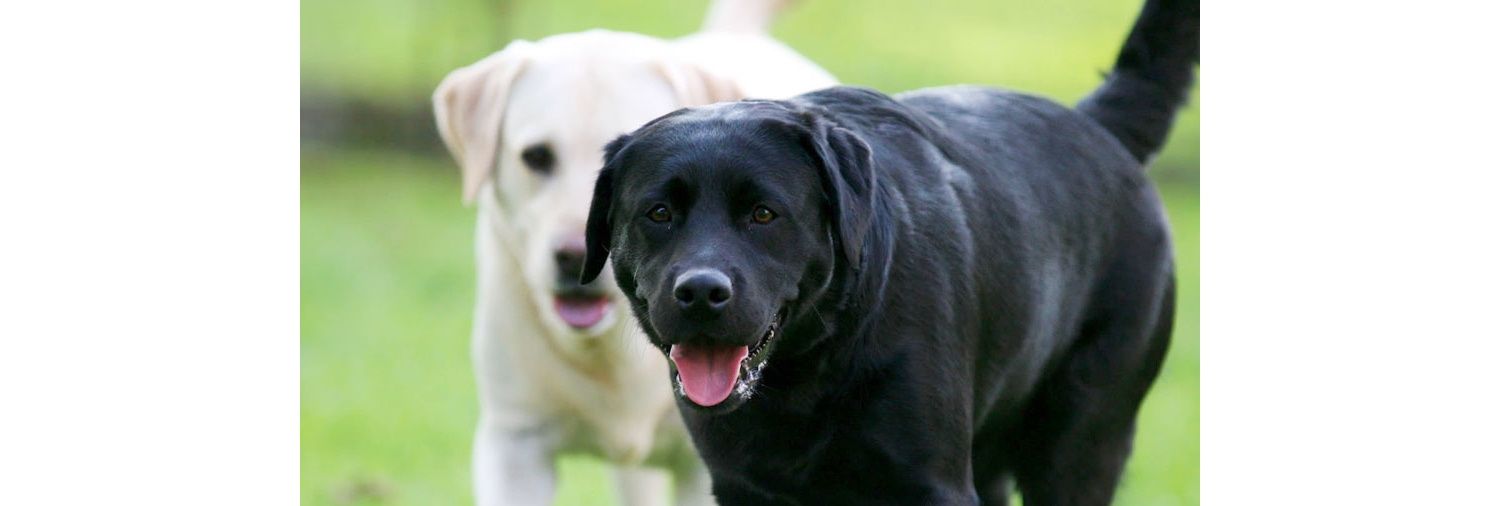
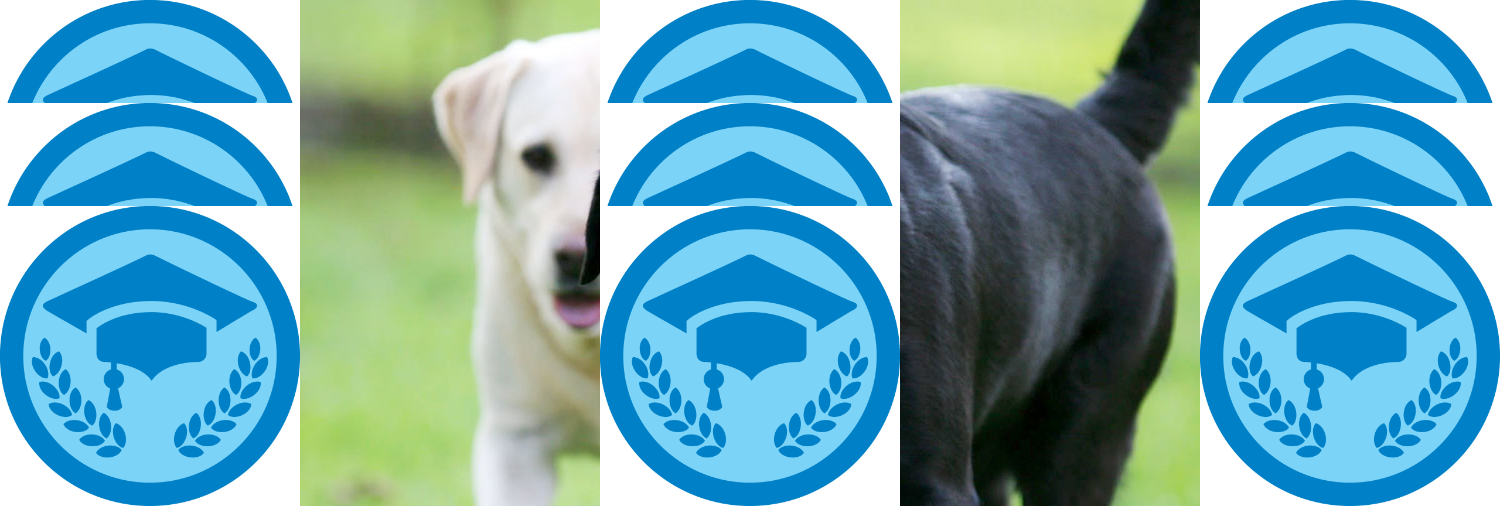
finish all location image merging

diff --git a/src/ImageServer.WebApi/Controllers/MergeController.cs b/src/ImageServer.WebApi/Controllers/MergeController.cs
@@ -18,52 +18,111 @@ namespace ImageServer.WebApi.Controllers
         {
             using (var primaryImage = new Bitmap(Image.FromFile(request.Primary)))
             {
-                var topRightImage = GetSubImageByPosition(request.SubImages, SubImageLocation.TopRight);
-                var middleRightImage = GetSubImageByPosition(request.SubImages, SubImageLocation.Right);
-                var bottomRightImage = GetSubImageByPosition(request.SubImages, SubImageLocation.BottomRight);
+                var subImages = GetSubImagesByPosition(request.SubImages);
 
-                var paddingRight = Math.Max(Math.Max(topRightImage?.Width ?? 0, middleRightImage?.Width ?? 0), bottomRightImage?.Width ?? 0);
+                var rightImages = subImages.Where(si =>
+                    si.Key == SubImageLocation.TopRight
+                    || si.Key == SubImageLocation.MiddleRight
+                    || si.Key == SubImageLocation.BottomRight);
+                var paddingRight = rightImages.Any()? rightImages.Max(x => x.Value.Width): 0;
 
-                var topLeftImage = GetSubImageByPosition(request.SubImages, SubImageLocation.TopLeft);
-                var middleLeftImage = GetSubImageByPosition(request.SubImages, SubImageLocation.Left);
-                var bottomLeftImage = GetSubImageByPosition(request.SubImages, SubImageLocation.BottomLeft);
-
-                var paddingLeft = Math.Max(Math.Max(topLeftImage?.Width ?? 0, middleLeftImage?.Width ?? 0), bottomLeftImage?.Width ?? 0);
+                var leftImages = subImages.Where(si =>
+                si.Key == SubImageLocation.TopLeft
+                || si.Key == SubImageLocation.MiddleLeft
+                || si.Key == SubImageLocation.BottomLeft);
+                var paddingLeft = leftImages.Any()? leftImages.Max(x => x.Value.Width) : 0;
 
                 var newHeight = primaryImage.Height;
                 var newWidth = primaryImage.Width + paddingRight + paddingLeft;
                 var newImage = new Bitmap(newWidth, newHeight);
 
                 PlacePrimaryImage(newImage, primaryImage, paddingLeft);
-                PlaceLeftImages(newImage, paddingLeft, topLeftImage, middleLeftImage, bottomLeftImage);
+                PlaceSubImages(newImage, subImages);
 
-
-                //put right Top Image
-                if (topRightImage != null)
-                {
-                    for (int y = 0; y < topRightImage.Height; y++)
-                    {
-                        for (int x = 0; x < topRightImage.Width; x++)
-                        {
-                            Color col = topRightImage.GetPixel(x, y);
-                            newImage.SetPixel(newWidth - topRightImage.Width + x, y, col);
-                        }
-                    }
-                }
-
-
-                
                 newImage.Save("output/newImage.jpg");
 
-                if (topRightImage != null)
-                    topRightImage.Dispose();
+                if (subImages != null)
+                {
+                    foreach (var bm in subImages.Values)
+                        bm.Dispose();
+                }
             }
             return Ok();
         }
 
-        private void PlaceLeftImages(Bitmap newImage, int paddingLeft, Bitmap topLeftImage, Bitmap middleLeftImage, Bitmap bottomLeftImage)
+        private void PlaceSubImages(Bitmap outputImage, IDictionary<SubImageLocation, Bitmap> subImages)
         {
-            throw new NotImplementedException();
+            var outputStartYIndex = 0;
+            var outputStartXIndex = 0;
+            int maxImgHeight = 0;
+
+            foreach (var img in subImages)
+            {
+                var image = img.Value;
+                var location = img.Key;
+
+                switch (location)
+                {
+                    case SubImageLocation.TopRight:
+                        outputStartYIndex = 0;
+                        outputStartXIndex = Math.Max( outputImage.Width-img.Value.Width, 0);
+                        maxImgHeight = Math.Min(image.Height, outputImage.Height);
+                        break;
+                    case SubImageLocation.TopMiddle:
+                        outputStartYIndex = 0;
+                        outputStartXIndex = Math.Max((outputImage.Width - img.Value.Width) / 2, 0);
+                        maxImgHeight = Math.Min(image.Height, outputImage.Height - outputStartYIndex);
+                        break;
+                    case SubImageLocation.TopLeft:
+                        outputStartYIndex = 0;
+                        outputStartXIndex = 0;
+                        maxImgHeight = Math.Min(image.Height, outputImage.Height);
+                        break;
+                    case SubImageLocation.MiddleRight:
+                        outputStartYIndex = Math.Max(0, (outputImage.Height - image.Height) / 2);
+                        outputStartXIndex = Math.Max(outputImage.Width - img.Value.Width, 0);
+                        maxImgHeight = Math.Min(image.Height, outputImage.Height - outputStartYIndex);
+                        break;
+                    case SubImageLocation.Center:
+                        outputStartYIndex = Math.Max(0, (outputImage.Height - image.Height) / 2);
+                        outputStartXIndex = Math.Max((outputImage.Width - img.Value.Width)/2, 0);
+                        maxImgHeight = Math.Min(image.Height, outputImage.Height - outputStartYIndex);
+                        break;
+                    case SubImageLocation.MiddleLeft:
+                        outputStartYIndex = Math.Max(0, (outputImage.Height - image.Height) / 2);
+                        outputStartXIndex = 0;
+                        maxImgHeight = Math.Min(image.Height, outputImage.Height - outputStartYIndex);
+                        break;
+                    case SubImageLocation.BottomRight:
+                        outputStartYIndex = Math.Max(0, outputImage.Height - image.Height);
+                        outputStartXIndex = Math.Max(outputImage.Width - img.Value.Width, 0);
+                        maxImgHeight = image.Height;
+                        break;
+                    case SubImageLocation.BottomMiddle:
+                        outputStartYIndex = Math.Max(0, outputImage.Height - image.Height);
+                        outputStartXIndex = Math.Max((outputImage.Width - img.Value.Width)/2, 0);
+                        maxImgHeight = Math.Min(image.Height, outputImage.Height - outputStartYIndex);
+                        break;
+                    case SubImageLocation.BottomLeft:
+                        outputStartYIndex = Math.Max(0, outputImage.Height - image.Height);
+                        outputStartXIndex = 0;
+                        maxImgHeight = image.Height;
+                        break;
+                    default:
+                        throw new ArgumentOutOfRangeException(nameof(location));
+                }
+
+                //place top left
+
+                for (int newImageY = outputStartYIndex, imgY = 0; imgY < maxImgHeight; newImageY++, imgY++)
+                {
+                    for (int x = 0; x < image.Width; x++)
+                    {
+                        Color col = image.GetPixel(x, imgY);
+                        outputImage.SetPixel(outputStartXIndex + x, newImageY, col);
+                    }
+                }
+            }
         }
 
         private void PlacePrimaryImage(Bitmap newImage, Bitmap primaryImage, int paddingLeft)
@@ -73,15 +132,19 @@ namespace ImageServer.WebApi.Controllers
                 for (int x = 0; x < primaryImage.Width; x++)
                 {
                     Color col = primaryImage.GetPixel(x, y);
-                    newImage.SetPixel(paddingLeft+ x, y, col);
+                    newImage.SetPixel(paddingLeft + x, y, col);
                 }
             }
         }
 
-        private Bitmap GetSubImageByPosition(IEnumerable<SubImage> subImages, SubImageLocation imgLocation)
+        private IDictionary<SubImageLocation, Bitmap> GetSubImagesByPosition(IEnumerable<SubImage> subImages)
         {
-            var img = subImages.FirstOrDefault(x => (SubImageLocation)x.MergeLocation == imgLocation);
-            return img != null ? new Bitmap(Image.FromFile(img.Uri)) : null;
+            var result = new Dictionary<SubImageLocation, Bitmap>();
+
+            var list = subImages.Where(si => Enum.TryParse(si.Location, true, out SubImageLocation sil));
+            foreach (var itm in list)
+                result[Enum.Parse<SubImageLocation>(itm.Location, true)] = new Bitmap(Image.FromFile(itm.Uri));
+            return result;
         }
 
         private (int addToTop, int addToBottom, int addToRight, int addToLeft) GetHeightValueToAdd(IEnumerable<System.Drawing.Image> subImages)

diff --git a/src/ImageServer.WebApi/Models/SubImageLocation.cs b/src/ImageServer.WebApi/Models/SubImageLocation.cs
@@ -5,9 +5,9 @@
         TopRight = 10,
         TopMiddle = 20,
         TopLeft = 30,
-        Right = 40,
-        Middle = 50,
-        Left = 60,
+        MiddleRight = 40,
+        Center = 50,
+        MiddleLeft = 60,
         BottomRight = 70,
         BottomMiddle = 80,
         BottomLeft =90

diff --git a/src/ImageServer.WebApi/Models/SubImage.cs b/src/ImageServer.WebApi/Models/SubImage.cs
@@ -3,7 +3,7 @@
     public class SubImage
     {
         public string Uri { get; set; }
-        public uint MergeLocation { get; set; }
+        public string Location { get; set; }
         public uint Overlap { get; set; }
     }
 }
